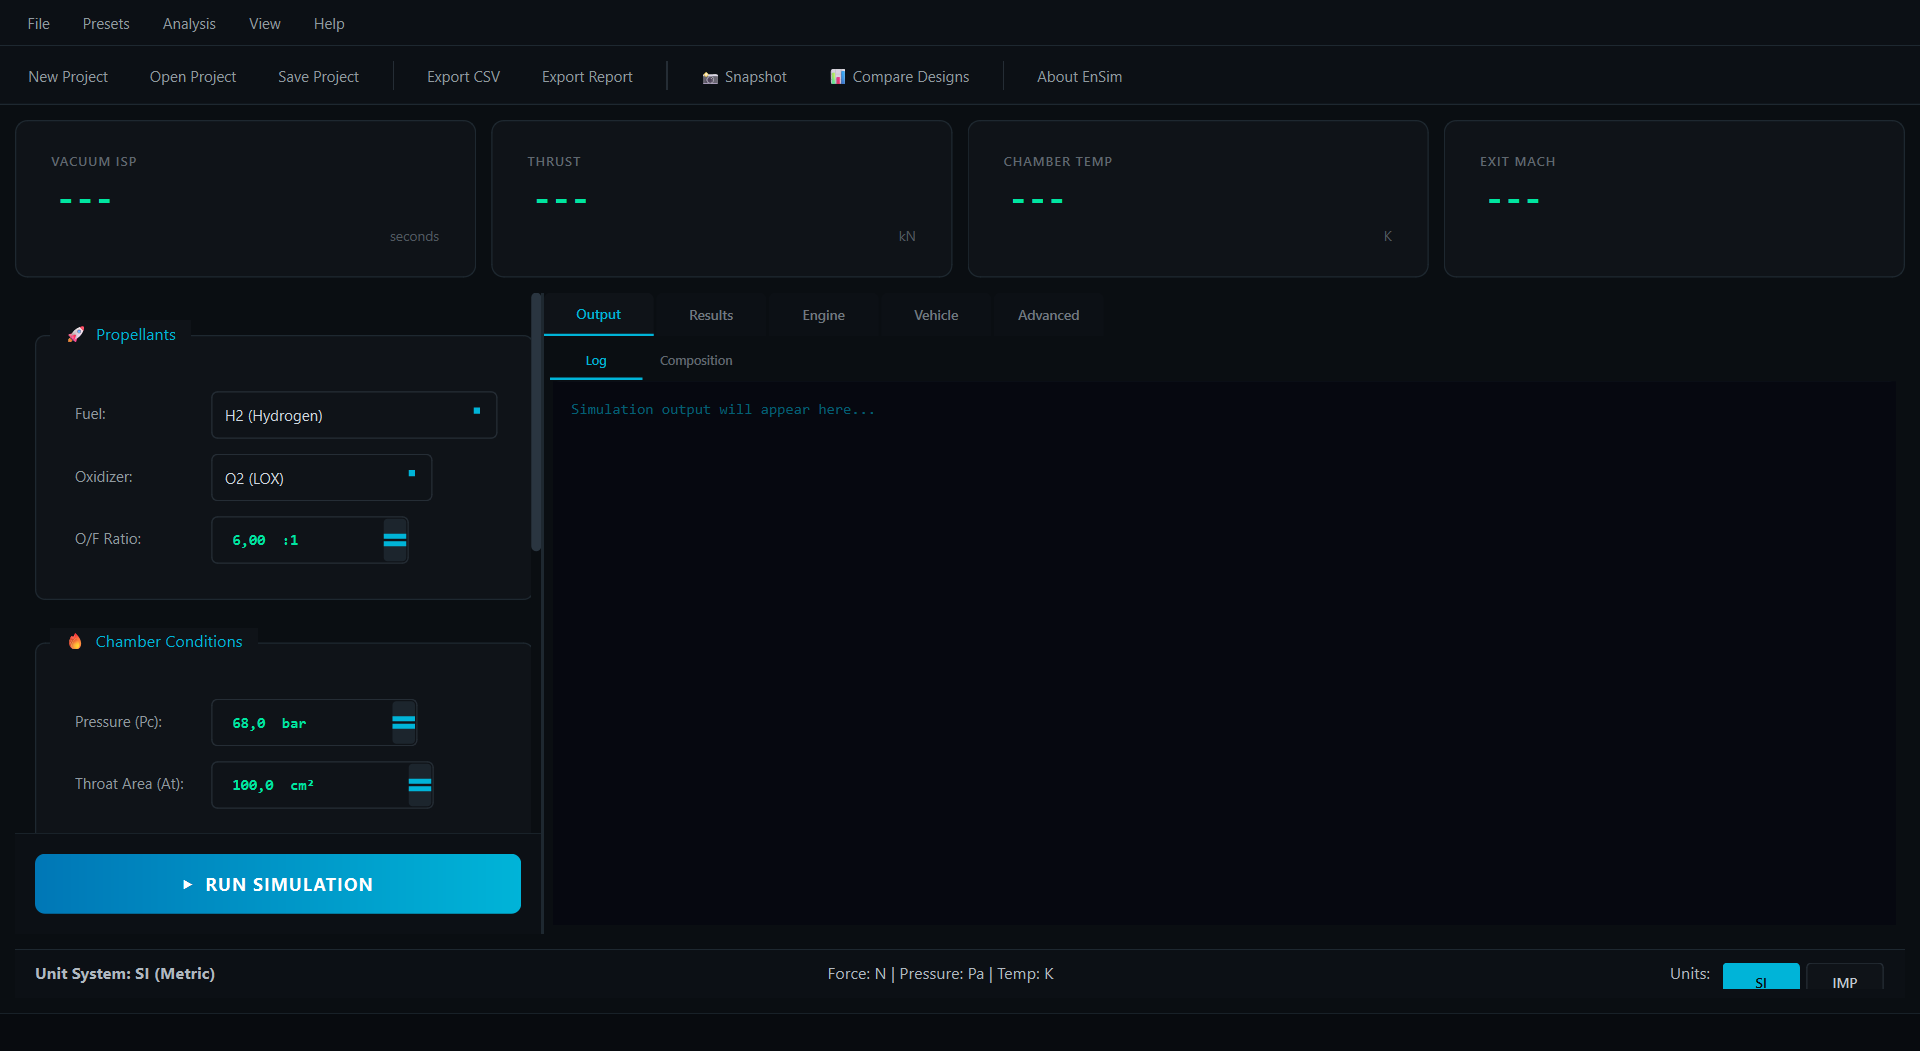
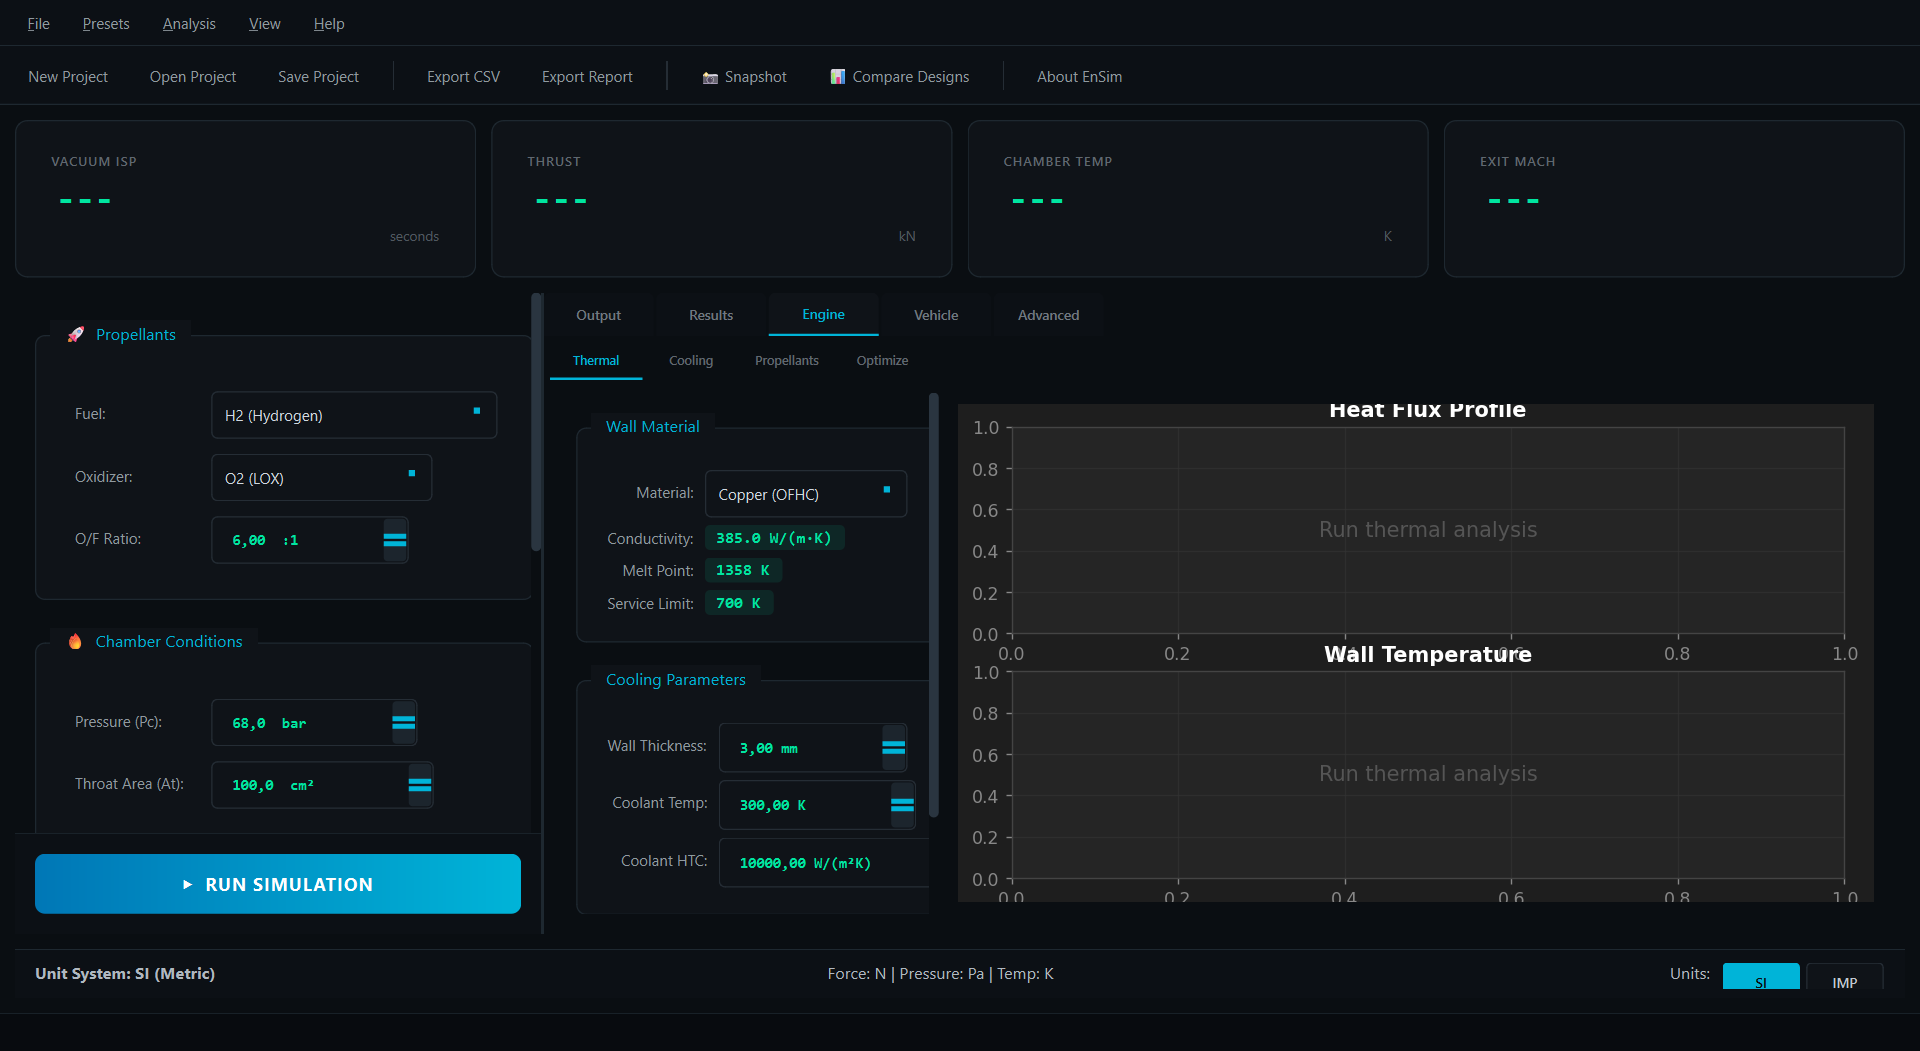
fix: recapture screenshots with proper tab switching

diff --git a/scripts/capture_screenshots.py b/scripts/capture_screenshots.py
@@ -2,20 +2,7 @@
 """
 Automatic Screenshot Capture Script for EnSim Documentation.
 
-This script launches the EnSim application and captures screenshots
-of all major UI components for documentation purposes.
-
-Usage:
-    python scripts/capture_screenshots.py
-
-Output:
-    Screenshots saved to docs/ folder:
-    - screenshot_main.png      - Main window with simulation
-    - screenshot_engine.png    - Engine tab (Thermal + Cooling)
-    - screenshot_vehicle.png   - Vehicle tab (Stages)
-    - screenshot_results.png   - Results tab (Graphs)
-    - screenshot_3d.png        - 3D visualization
-    - screenshot_advanced.png  - Advanced engineering tab
+Captures screenshots of each tab sequentially with proper delays.
 """
 
 import sys
@@ -26,189 +13,159 @@ import time
 sys.path.insert(0, os.path.dirname(os.path.dirname(os.path.abspath(__file__))))
 
 from PyQt6.QtWidgets import QApplication
-from PyQt6.QtCore import QTimer, Qt
-from PyQt6.QtGui import QScreen
+from PyQt6.QtCore import QTimer
 
 
 def capture_screenshots():
-    """Main function to capture all screenshots."""
+    """Capture screenshots of all tabs."""
     
     app = QApplication(sys.argv)
     
-    # Import after QApplication is created
     from src.ui.windows.main_window import MainWindow
     
-    # Create main window
     window = MainWindow()
     window.show()
     window.resize(1400, 900)
     
-    # Center on screen
+    # Center window
     screen = app.primaryScreen()
     if screen:
-        geometry = screen.availableGeometry()
-        x = (geometry.width() - window.width()) // 2
-        y = (geometry.height() - window.height()) // 2
-        window.move(x, y)
+        geo = screen.availableGeometry()
+        window.move((geo.width() - 1400) // 2, (geo.height() - 900) // 2)
     
-    # Output directory
     output_dir = os.path.join(os.path.dirname(os.path.dirname(__file__)), 'docs')
     os.makedirs(output_dir, exist_ok=True)
     
-    screenshots = []
-    current_step = [0]  # Use list for mutable in closure
+    step = [0]
     
-    def take_screenshot(name: str, description: str):
-        """Capture current window state."""
-        # Process events to ensure UI is rendered
+    def save_screenshot(name: str):
+        """Save current window as screenshot."""
         app.processEvents()
-        time.sleep(0.3)
+        time.sleep(0.5)
         app.processEvents()
         
-        # Grab window
         pixmap = window.grab()
+        path = os.path.join(output_dir, f'{name}.png')
+        pixmap.save(path, 'PNG')
         
-        # Save
-        filepath = os.path.join(output_dir, f'{name}.png')
-        pixmap.save(filepath, 'PNG')
-        print(f"[OK] Captured: {name}.png - {description}")
-        screenshots.append(filepath)
+        size_kb = os.path.getsize(path) / 1024
+        print(f"[OK] {name}.png ({size_kb:.1f} KB)")
     
     def run_simulation():
-        """Run a sample simulation for screenshots."""
+        """Run a quick simulation to populate data."""
         try:
-            # Set some example values if possible
             if hasattr(window, 'input_panel'):
-                panel = window.input_panel
-                # These might fail if widgets don't exist, that's OK
-                try:
-                    panel.fuel_combo.setCurrentText("H2")
-                    panel.oxidizer_combo.setCurrentText("O2")
-                    panel.of_ratio_spin.setValue(6.0)
-                    panel.chamber_pressure_spin.setValue(70.0)
-                    panel.expansion_ratio_spin.setValue(40.0)
-                except:
-                    pass
+                p = window.input_panel
+                if hasattr(p, 'fuel_combo'):
+                    p.fuel_combo.setCurrentIndex(0)  # H2
+                if hasattr(p, 'oxidizer_combo'):
+                    p.oxidizer_combo.setCurrentIndex(0)  # O2
+                if hasattr(p, 'of_ratio_spin'):
+                    p.of_ratio_spin.setValue(6.0)
+                if hasattr(p, 'chamber_pressure_spin'):
+                    p.chamber_pressure_spin.setValue(70.0)
+                if hasattr(p, 'expansion_ratio_spin'):
+                    p.expansion_ratio_spin.setValue(40.0)
             
-            # Trigger simulation
             if hasattr(window, '_run_simulation'):
                 window._run_simulation()
                 app.processEvents()
-                time.sleep(1.5)  # Wait for simulation
+                time.sleep(2)  # Wait for simulation
                 app.processEvents()
+                print("[OK] Simulation completed")
         except Exception as e:
-            print(f"[WARN] Could not run simulation: {e}")
+            print(f"[WARN] Simulation error: {e}")
     
     def next_step():
-        """Execute next screenshot step."""
-        step = current_step[0]
+        """Execute screenshot steps sequentially."""
+        s = step[0]
         
         try:
-            if step == 0:
-                print("\n=== EnSim Screenshot Capture ===\n")
-                print("Initializing application...")
-                app.processEvents()
-                time.sleep(0.5)
-                
-            elif step == 1:
-                print("Running sample simulation...")
+            if s == 0:
+                print("\n=== EnSim Screenshot Capture v2 ===\n")
+                print("Step 1: Running simulation...")
                 run_simulation()
                 
-            elif step == 2:
-                # Main window - Output tab
-                if hasattr(window, 'main_tabs'):
-                    window.main_tabs.setCurrentIndex(0)
-                take_screenshot('screenshot_main', 'Main window with Output tab')
-                
-            elif step == 3:
-                # Results tab
-                if hasattr(window, 'main_tabs'):
-                    window.main_tabs.setCurrentIndex(1)
+            elif s == 1:
+                print("\nStep 2: Capturing Output tab...")
+                window.tabs.setCurrentIndex(0)  # Output
                 app.processEvents()
                 time.sleep(0.3)
-                take_screenshot('screenshot_results', 'Results tab with graphs')
+                save_screenshot('screenshot_main')
                 
-            elif step == 4:
-                # Engine tab
-                if hasattr(window, 'main_tabs'):
-                    window.main_tabs.setCurrentIndex(2)
+            elif s == 2:
+                print("\nStep 3: Capturing Results tab...")
+                window.tabs.setCurrentIndex(1)  # Results
                 app.processEvents()
                 time.sleep(0.3)
-                take_screenshot('screenshot_engine', 'Engine tab (Thermal/Cooling)')
+                save_screenshot('screenshot_results')
                 
-            elif step == 5:
-                # Vehicle tab
-                if hasattr(window, 'main_tabs'):
-                    window.main_tabs.setCurrentIndex(3)
+            elif s == 3:
+                print("\nStep 4: Capturing Results/3D...")
+                # Find 3D sub-tab
+                results_tab = window.tabs.widget(1)
+                if results_tab:
+                    for child in results_tab.findChildren(type(window.tabs)):
+                        if child.objectName() == "subTabs":
+                            child.setCurrentIndex(1)  # 3D View
+                            break
                 app.processEvents()
-                time.sleep(0.3)
-                take_screenshot('screenshot_vehicle', 'Vehicle tab (Staging)')
+                time.sleep(0.5)
+                save_screenshot('screenshot_3d')
                 
-            elif step == 6:
-                # Advanced tab
-                if hasattr(window, 'main_tabs'):
-                    window.main_tabs.setCurrentIndex(4)
-                app.processEvents()
-                time.sleep(0.3)
-                take_screenshot('screenshot_advanced', 'Advanced engineering tab')
-                
-            elif step == 7:
-                # 3D View - try to find it
-                # Usually in Results or separate
-                if hasattr(window, 'main_tabs'):
-                    window.main_tabs.setCurrentIndex(1)  # Results has 3D
-                app.processEvents()
-                time.sleep(0.3)
-                # Try to switch to 3D sub-tab if exists
-                if hasattr(window, 'results_tabs'):
-                    for i in range(window.results_tabs.count()):
-                        if '3D' in window.results_tabs.tabText(i):
-                            window.results_tabs.setCurrentIndex(i)
+            elif s == 4:
+                print("\nStep 5: Capturing Results/Graphs...")
+                results_tab = window.tabs.widget(1)
+                if results_tab:
+                    for child in results_tab.findChildren(type(window.tabs)):
+                        if child.objectName() == "subTabs":
+                            child.setCurrentIndex(0)  # Graphs
                             break
                 app.processEvents()
                 time.sleep(0.3)
-                take_screenshot('screenshot_3d', '3D nozzle visualization')
+                save_screenshot('screenshot_graphs')
                 
-            elif step == 8:
-                # Graphs detail
-                if hasattr(window, 'main_tabs'):
-                    window.main_tabs.setCurrentIndex(1)
-                if hasattr(window, 'results_tabs'):
-                    for i in range(window.results_tabs.count()):
-                        text = window.results_tabs.tabText(i).lower()
-                        if 'graph' in text or 'plot' in text or '2d' in text:
-                            window.results_tabs.setCurrentIndex(i)
-                            break
+            elif s == 5:
+                print("\nStep 6: Capturing Engine tab...")
+                window.tabs.setCurrentIndex(2)  # Engine
                 app.processEvents()
                 time.sleep(0.3)
-                take_screenshot('screenshot_graphs', '2D performance graphs')
+                save_screenshot('screenshot_engine')
                 
-            elif step == 9:
-                print(f"\n=== Screenshot Capture Complete ===")
-                print(f"Total: {len(screenshots)} screenshots saved to docs/")
-                print("\nFiles:")
-                for f in screenshots:
-                    print(f"  - {os.path.basename(f)}")
-                print()
+            elif s == 6:
+                print("\nStep 7: Capturing Vehicle tab...")
+                window.tabs.setCurrentIndex(3)  # Vehicle
+                app.processEvents()
+                time.sleep(0.3)
+                save_screenshot('screenshot_vehicle')
                 
-                # Close and exit
+            elif s == 7:
+                print("\nStep 8: Capturing Advanced tab...")
+                window.tabs.setCurrentIndex(4)  # Advanced
+                app.processEvents()
+                time.sleep(0.3)
+                save_screenshot('screenshot_advanced')
+                
+            elif s == 8:
+                print("\n=== Complete! ===")
+                print(f"Screenshots saved to: {output_dir}")
                 window.close()
                 app.quit()
                 return
                 
         except Exception as e:
-            print(f"[ERROR] Step {step}: {e}")
+            print(f"[ERROR] Step {s}: {e}")
+            import traceback
+            traceback.print_exc()
         
-        current_step[0] += 1
-        QTimer.singleShot(500, next_step)
+        step[0] += 1
+        QTimer.singleShot(800, next_step)
     
-    # Start the capture sequence
-    QTimer.singleShot(1000, next_step)
+    # Start after window is ready
+    QTimer.singleShot(1500, next_step)
     
-    # Run app
     sys.exit(app.exec())
 
 
 if __name__ == '__main__':
     capture_screenshots()
-
